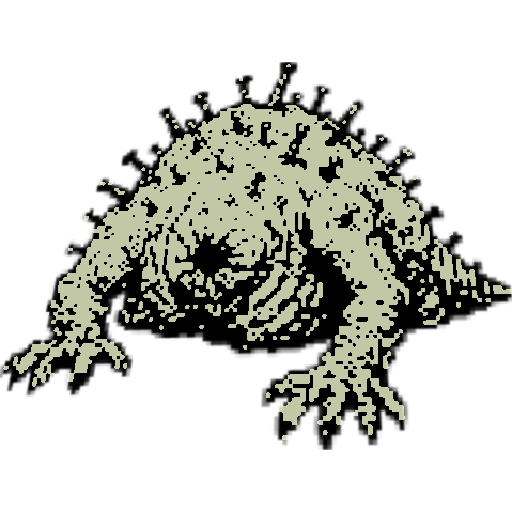
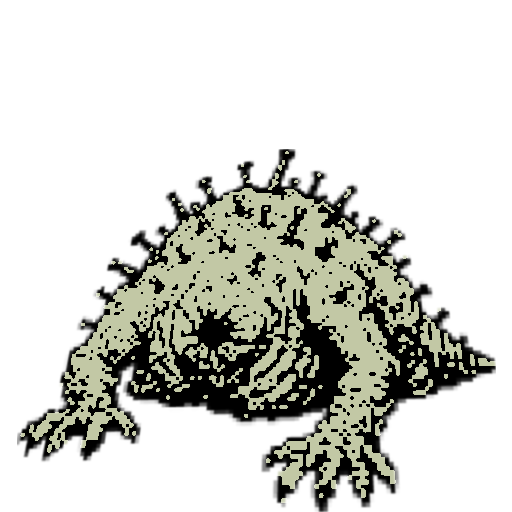
[cc] M06: 방송 오버레이 바 신설 · 적을 바닥에 세운다 · 층/적이름 창 제거
사람 지시 3건.

1. 몬스터를 배경 바닥선에 세운다
   좌표만 내려서는 안 됐다. 적 CG 가 512x512 칸 **가운데** 정렬돼 있어서 발밑에
   투명 여백이 남아 있었고, 배경 바닥에 아무리 맞춰도 떠 보였다.
   tools/fit-art.mjs 에 --trim(투명 여백 깎기) / --anchor=bottom(아래 붙이기)을 넣고
   적 5종을 다시 변환했다. 이제 칸 아래끝 = 발끝이라 y 좌표 하나로 바닥에 선다.

2. 층·적 이름 창 제거
   방송 화면에 「지금 몇 층 · 무슨 적」을 띄우는 방송국은 없다.
   층은 왼쪽 층계 게이지와 HUD 가 이미 말한다. 적 이름은 **적 체력바 옆**으로 옮겼다 —
   층·이름 창을 없앤 뒤로 그 줄이 「무엇과 싸우는지」를 말하는 유일한 자리라
   16px 라벨에서 본문 크기로 올리고 판도 불투명하게 깔았다.

3. 방송 오버레이 바 (L.live.liveBar)
   ON AIR(깜빡이는 붉은 마름모 + LIVE 액자) · 방송 이름 · 시청자 수를 한 줄에.
   방송 이름은 페르소나와 자기 신고 목표층 — 계약서에 적힌 그대로다.
   시청자 수는 빠지는 중이면 ▼ 가 붙는다 (core 의 지체 페널티가 만든 변화).

같이 옮긴 것 — 바가 생기면서 아래로 밀린 것들
  채팅 288 -> 344 · 초상 190 -> 244 · 상태 452 -> 500 · 적 400 -> 504
  대사 배너를 (860,800) 900x173 으로 — 원본 1592x307 의 비율 그대로다
  온보딩을 지도 아래 책상 빈 띠로 (위쪽은 HUD 와 방송 바가 다 쓴다)

브라우저 확인 (1920x1080, LIVE 3F rat): 콘솔 오류 0.
typecheck / test 73개 / build 통과. DayScene / OfficePhase 는 stage 하지 않았다.

diff --git a/src/scenes/phases/LivePhase.ts b/src/scenes/phases/LivePhase.ts
@@ -210,7 +210,7 @@ export class LivePhase extends PhaseScene {
     this.buildMap(s);
     this.buildRadio(s);
     this.buildLantern();
-    this.buildBadge();
+    this.buildLiveBar(s);
     this.buildPortrait(s);
     this.buildChat(s);
     this.buildDialogue(s);
@@ -220,8 +220,8 @@ export class LivePhase extends PhaseScene {
     if (s.today !== null) {
       const asking = pendingFork(s) !== null;
       if (asking || s.today.encounter !== null) {
-        // HUD(0~144) 위에 뜨면 상단바 아트를 가린다. 지도 위 빈 띠에 태운다
-        onboard(this, s.day, asking ? 'LIVE_RADIO' : 'LIVE_COMBAT', { x: 220, y: 152, w: 520 });
+        // 위쪽은 HUD 와 방송 바가 다 쓴다. 지도 아래 책상 빈 띠에 태운다
+        onboard(this, s.day, asking ? 'LIVE_RADIO' : 'LIVE_COMBAT', { x: 160, y: 1000, w: 560 });
       }
     }
 
@@ -392,29 +392,22 @@ export class LivePhase extends PhaseScene {
     }
     const enc = run.encounter;
 
-    // 좌상단은 LIVE 표시가, 그 아래는 채팅창이 쓴다.
-    // 전투 정보는 **채팅 오른쪽 · 초상 왼쪽** 띠에 세운다 — 목업에도 이 자리는 비어 있다.
     const e = L.live.enemy;
-    const ix = e.x;
-    const iw = L.live.portrait.x - ix - 24;
 
-    if (enc === null) {
-      this.scrimBlock(ix - 16, v.y + 40, iw + 32, 96);
-      this.label(ix, v.y + 52, `${run.currentFloor}F`, 'dust');
-      this.title(ix, v.y + 84, '하강 중', 'dust');
-    } else {
-      this.scrimBlock(ix - 16, v.y + 40, iw + 32, 96);
-      this.label(ix, v.y + 52, `${enc.floor}F · ${enc.turn}턴`, 'dust');
-      this.title(ix, v.y + 84, this.clip(enemyName(enc.enemyKey), iw, 'title'), 'bone');
-
+    if (enc !== null) {
       // 적 CG — 512x512 원본을 정확히 1/2 로. 소수배로 줄이면 디더가 깨진다
       if (!this.spriteFit(e, [enc.enemyKey])) this.enemyShape(e.x - 32, e.y - 20, 320, 300, enc.enemyKey);
 
-      // 체력바는 적 스프라이트 **바로 아래** — 누구의 체력인지 붙어 있어야 읽힌다
-      this.scrimBlock(e.x - 12, e.y + e.h, e.w + 24, 76);
-      this.bar(e.x, e.y + e.h + 10, e.w, enc.enemy.hp, enc.enemy.maxHp, 'wax');
-      this.label(e.x, e.y + e.h + 42, `적 ${enc.enemy.hp} / ${enc.enemy.maxHp}`, 'dust');
-      if (enc.guarding) this.textRight(e.x + e.w, e.y + e.h + 42, '방어', 'wax');
+      // 체력바는 적 스프라이트 **바로 아래**. 이름도 여기 붙는다 —
+      // 층·이름 창을 없앤 뒤로 이 줄이 「무엇과 싸우는지」를 말하는 유일한 자리다
+      // 층·이름 창을 없앤 뒤로 이 줄이 「무엇과 싸우는지」를 말하는 유일한 자리다.
+      // 16px 라벨로는 배경에 묻혀서 본문 크기로 올리고 판도 불투명하게 깐다
+      const hy = e.y + e.h - 2;
+      this.rect(e.x - 12, hy, e.w + 24, 78, 'ink');
+      this.bar(e.x, hy + 10, e.w, enc.enemy.hp, enc.enemy.maxHp, 'wax');
+      this.text(e.x, hy + 34,
+        `${enemyName(enc.enemyKey)}  ${enc.enemy.hp} / ${enc.enemy.maxHp}`, 'bone');
+      if (enc.guarding) this.textRight(e.x + e.w, hy + 34, '방어', 'wax');
     }
 
     // 용사의 이름·공·방·체력은 초상 바로 아래에 붙는다 (`buildPortrait`).
@@ -429,18 +422,36 @@ export class LivePhase extends PhaseScene {
   }
 
   /**
-   * LIVE 표시 — 액자와 붉은 마름모가 따로 왔다.
-   * 마름모만 깜빡인다 (`blinkers`). 액자까지 깜빡이면 방송이 끊긴 것처럼 보인다.
+   * 방송 오버레이 바 — 진짜 생방송 화면처럼 **ON AIR · 방송 이름 · 시청자 수**를 한 줄에 건다.
+   *
+   * 예전에는 LIVE 표시만 덩그러니 떠 있고, 층·적 이름은 그 아래 별도 창에 있었다.
+   * 그 창은 뺐다 (사용자 확정) — 방송 화면에 「지금 몇 층 · 무슨 적」을 띄우는 방송국은 없다.
+   * 적 이름은 적 체력바 옆으로 갔고, 층은 왼쪽 층계 게이지와 HUD 가 이미 말한다.
+   *
+   * 붉은 마름모만 깜빡인다 (`blinkers`). 액자까지 깜빡이면 방송이 끊긴 것처럼 보인다.
    */
-  private buildBadge(): void {
-    const v = L.live.badge;
-    if (this.spriteObject(v.x, v.y, 'ui.live.badge', v.w, v.h) === null) {
-      this.rect(v.x, v.y, v.w, v.h, 'ink');
-      this.frame(v.x, v.y, v.w, v.h, 'bone');
-      this.text(v.x + 56, v.y + 18, 'LIVE', 'bone');
+  private buildLiveBar(s: Readonly<GameState>): void {
+    const v = L.live.liveBar;
+    const b = L.live.badge;
+    this.rect(v.x, v.y, v.w, v.h, 'ink');
+    this.rect(v.x, v.y + v.h - L.line, v.w, L.line, 'bone');
+
+    if (this.spriteObject(b.x, b.y, 'ui.live.badge', b.w, b.h) === null) {
+      this.frame(b.x, b.y, b.w, b.h, 'bone');
+      this.text(b.x + 56, b.y + 18, 'ON AIR', 'bone');
     }
-    const dot = this.spriteObject(v.x + 18, v.y + 24, 'ui.live.blink', 26, 28);
-    this.blinkers.push(dot ?? this.dot(v.x + 24, v.y + 30, 16, 'wax'));
+    const dot = this.spriteObject(b.x + 18, b.y + 24, 'ui.live.blink', 26, 28);
+    this.blinkers.push(dot ?? this.dot(b.x + 24, b.y + 30, 16, 'wax'));
+
+    // 방송 제목 — 페르소나 이름과 자기 신고 목표층. 계약서에 적힌 그대로다
+    const persona = s.personas.find((p) => p.id === s.today?.personaId);
+    const title = `${persona?.displayName ?? '무명 방송'}  ·  ${s.today?.claimedCeiling ?? 0}층 도전`;
+    this.text(b.x + b.w + 32, v.y + 22, this.clip(title, 560), 'bone');
+
+    // 시청자 수 — 빠지는 중이면 ▼ 가 붙는다 (core 의 지체 페널티가 만든 변화)
+    const dropping = this.time.now < this.fanDropUntil;
+    this.textRight(v.x + v.w - 24, v.y + 22,
+      `시청자 ${dropping ? '▼ ' : ''}${fmtFans(s.fans)}`, dropping ? 'wax' : 'dust');
   }
 
   /**

diff --git a/src/ui/layout.ts b/src/ui/layout.ts
@@ -34,16 +34,19 @@ export const L = {
     map: { x: 140, y: 200, w: 620, h: 786 },       // 찢어진 지도 종이 — 방·복도는 씬이 그린다
     radio: { x: 556, y: 648, w: 200, h: 382 },     // 무전기. 지도 우하단에 비스듬히 걸친다
     combat: { x: 738, y: 144, w: 1182, h: 936 },   // 던전 (층 구간별로 갈아 끼운다)
-    badge: { x: 782, y: 190, w: 206, h: 74 },      // LIVE 표시
+    // 방송 오버레이 바 — ON AIR · 방송 이름 · 시청자 수. 전투 칸 위에 걸친다
+    liveBar: { x: 738, y: 148, w: 1182, h: 80 },
+    badge: { x: 754, y: 151, w: 206, h: 74 },      // ON AIR 표시 (바 왼쪽 끝)
     // 목업의 채팅창은 생각보다 작다. 560 으로 넓혔더니 적 CG 자리를 먹었다 (실측)
-    chat: { x: 782, y: 288, w: 424, h: 300 },
-    enemy: { x: 1230, y: 400, w: 256, h: 256 },    // 적 CG — 512x512 의 정확히 1/2. 체력바가 바로 아래 붙는다
+    chat: { x: 782, y: 344, w: 424, h: 300 },
+    // 적은 배경의 **바닥선**에 발을 딛는다. 배경 그림에서 길이 시작되는 높이가 y 716 근처다
+    enemy: { x: 1230, y: 504, w: 256, h: 256 },
     // 우상단 흉상. **1:1 로 놓고 칸을 줄여 잘라낸다** — 배율을 낮추면(0.83배 등)
     // 도트가 지글거린다. 칸이 작아진 만큼 얼굴 위주로 더 바짝 잘린다
-    portrait: { x: 1640, y: 190, w: 256, h: 248 },
-    stats: { x: 1640, y: 446, w: 256, h: 252 },    // 초상 바로 아래 — 이름·공·방·체력
+    portrait: { x: 1640, y: 244, w: 256, h: 248 },
+    stats: { x: 1640, y: 500, w: 256, h: 252 },    // 초상 바로 아래 — 이름·공·방·체력
     lantern: { x: 1440, y: 470, w: 460, h: 568 },  // 우하단 전경 (랜턴 든 팔)
-    dialogue: { x: 820, y: 756, w: 1040, h: 200 }, // 용사 대사 배너
+    dialogue: { x: 860, y: 800, w: 900, h: 173 },  // 용사 대사 배너 (원본 1592x307 의 비율 그대로)
     choices: { x: 1024, y: 956, w: 896, h: 108 },  // 3택
   },
 
